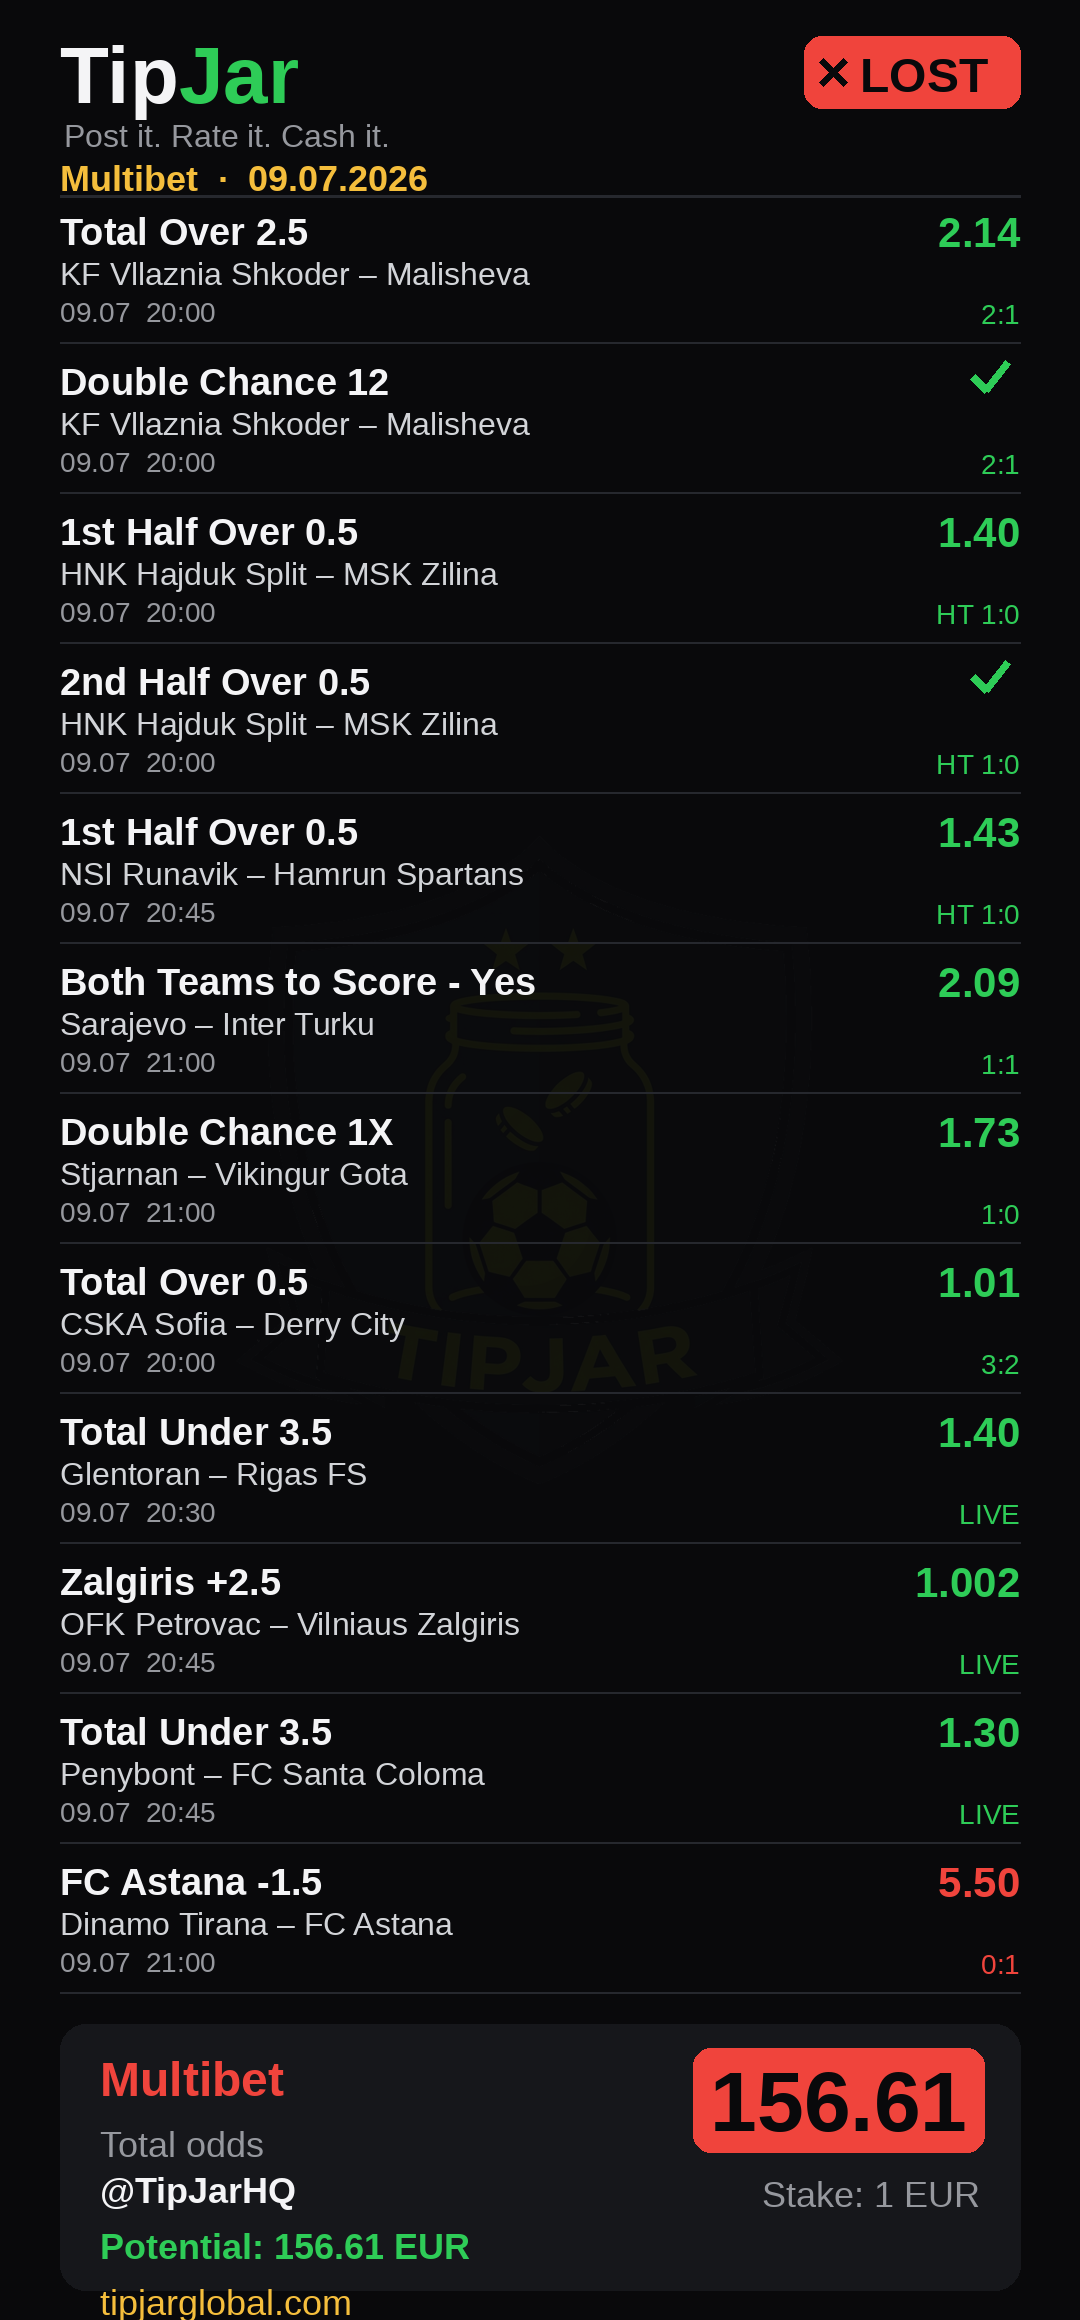
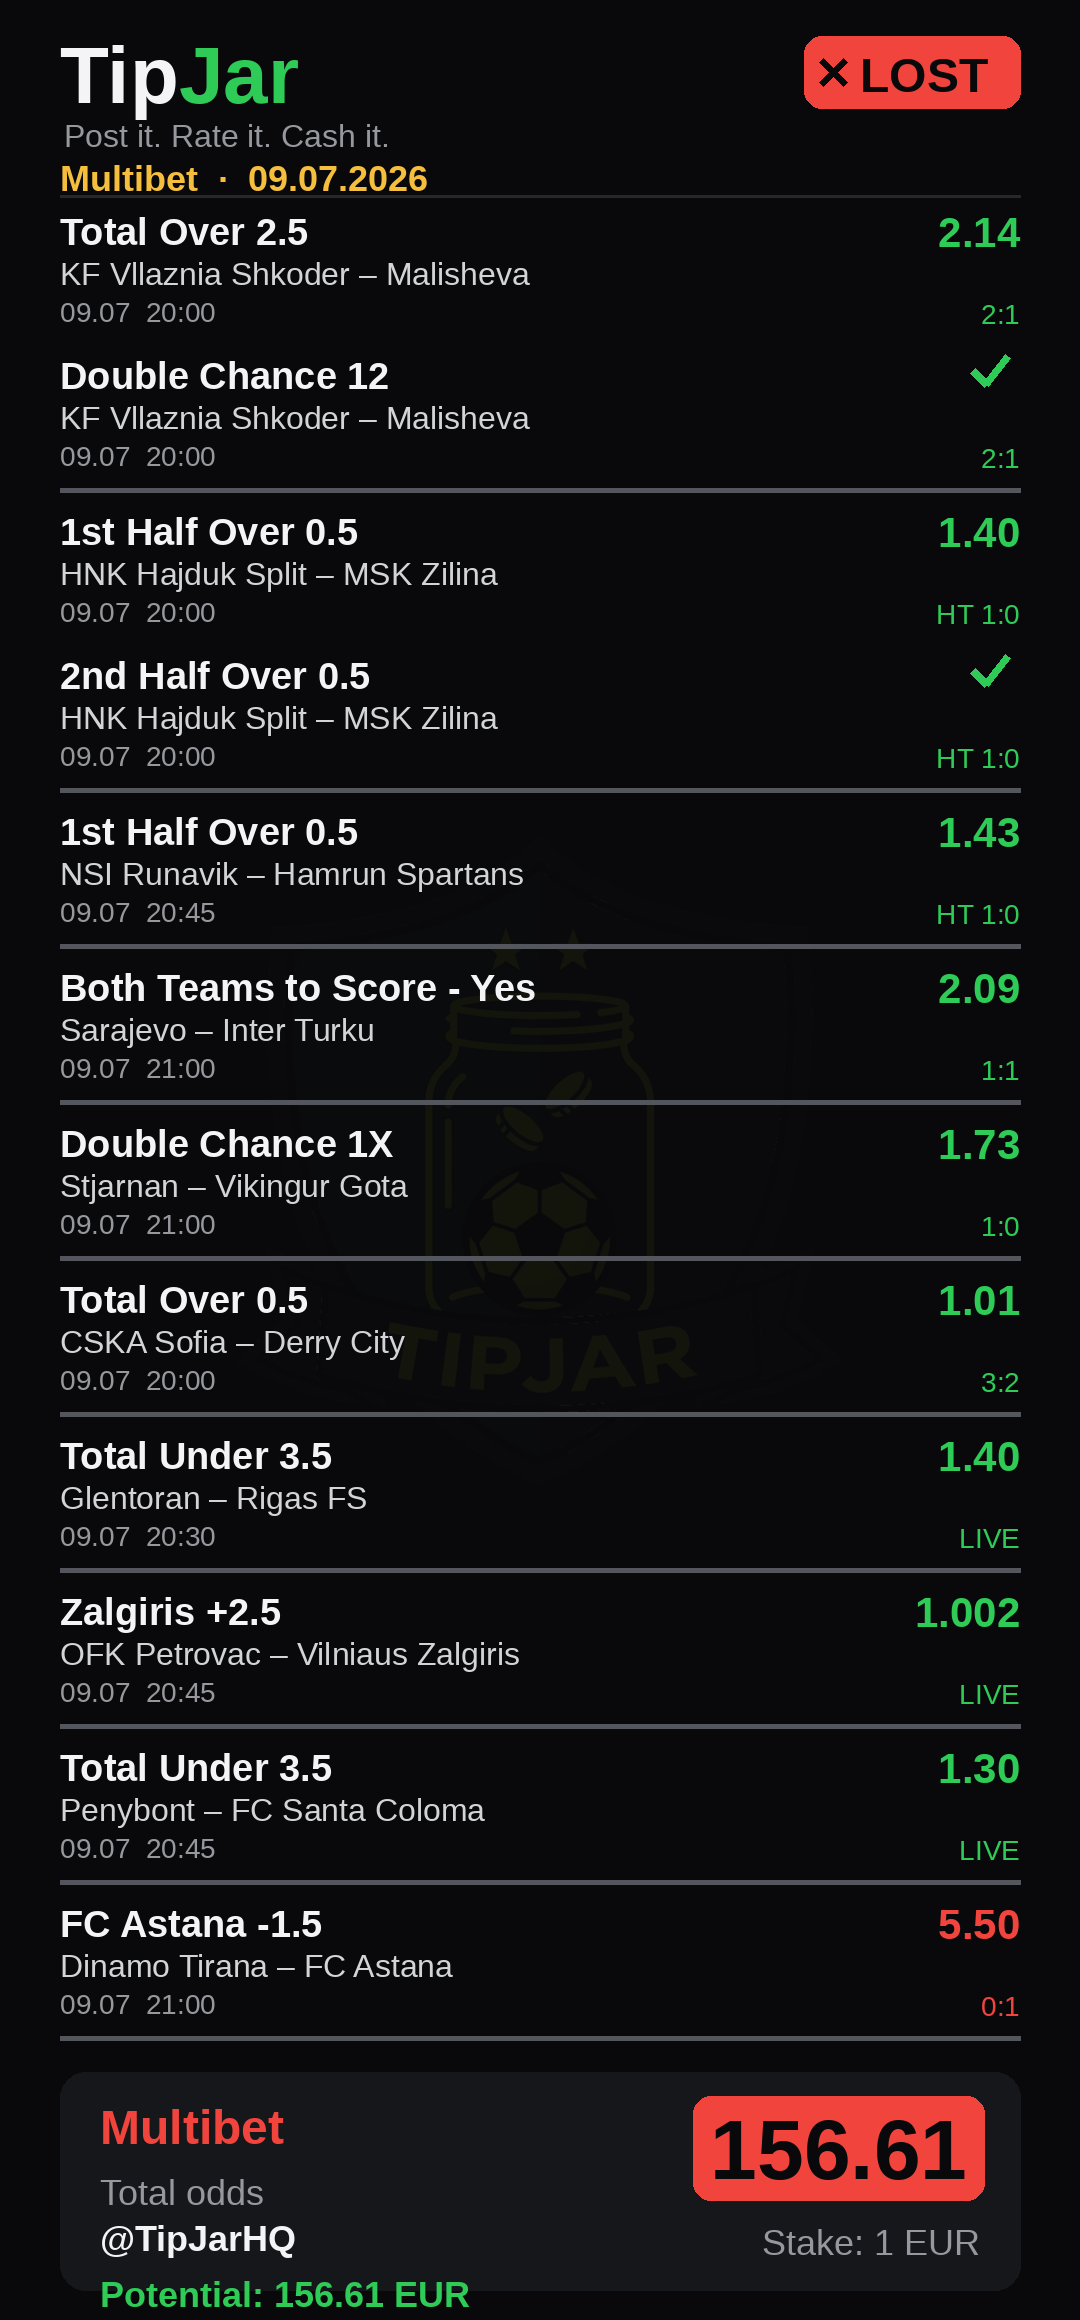
auto-commit for 14966fb8-e04e-47b6-9f75-0c22eae52dd3

diff --git a/scripts/render_ad_slips.py b/scripts/render_ad_slips.py
@@ -85,7 +85,7 @@ def render(legs, total_odds, stake, potential, out_path, subtitle):
     d.line([pad, head_h - 14, W - pad, head_h - 14], fill=LINE, width=3)
 
     y = head_h
-    for lg in legs:
+    for i, lg in enumerate(legs):
         st = lg["status"]
         col = RED if st == "lost" else GREEN
         odd = lg["odd"]
@@ -114,8 +114,13 @@ def render(legs, total_odds, stake, potential, out_path, subtitle):
         rw = d.textlength(res, font=f_meta)
         d.text((W - pad - rw, y + 2), res, font=f_meta, fill=col)
         y += 46
-        d.line([pad, y, W - pad, y], fill=LINE, width=2)
-        y += 18
+        same_next = (i + 1 < len(legs)) and (
+            legs[i + 1]["home"] == lg["home"] and legs[i + 1]["away"] == lg["away"])
+        if same_next:
+            y += 12  # same match, next leg → no divider
+        else:
+            d.line([pad, y + 4, W - pad, y + 4], fill=(84, 86, 94), width=5)
+            y += 24
 
     fy = y + 14
     d.rounded_rectangle([pad, fy, W - pad, H - 30], 26, fill=CARD)
